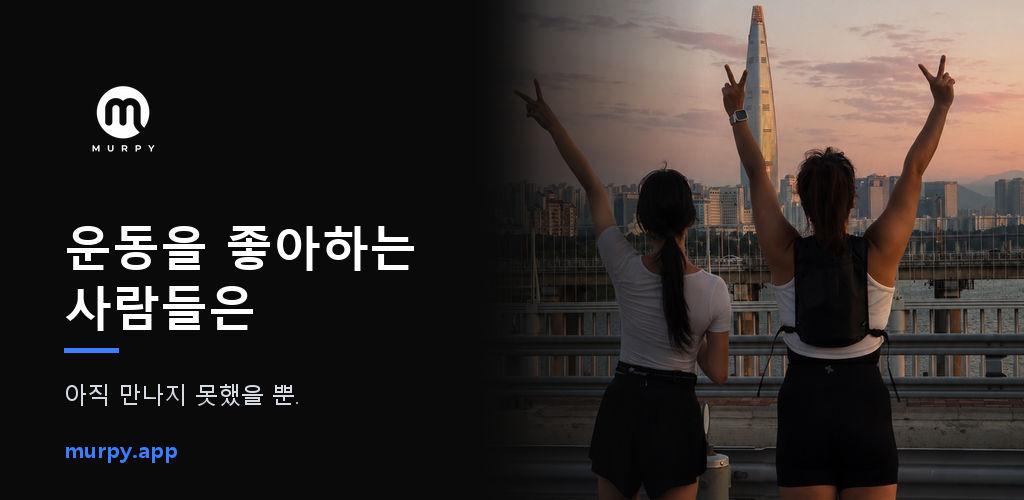
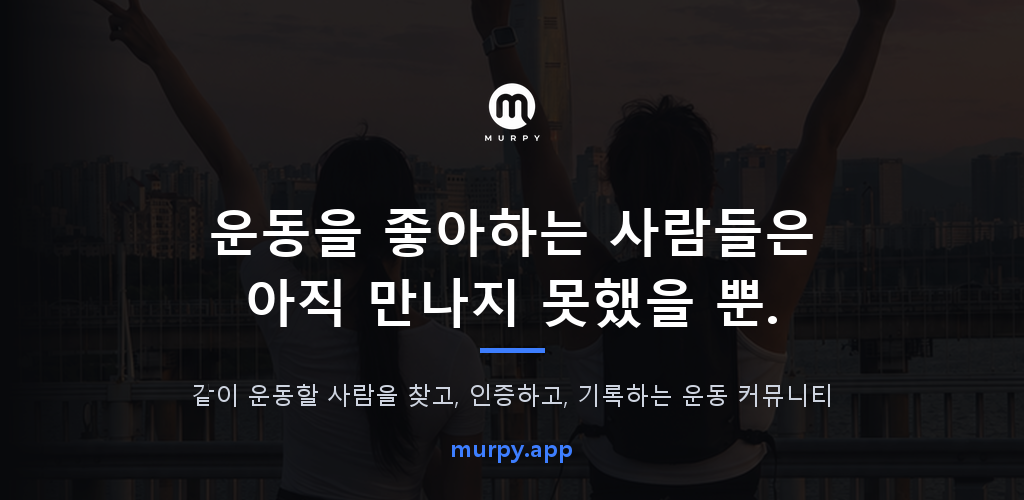
그래픽 이미지 — 로고·문구를 가운데로 (잘려도 살아남게)
대표 8-29: "지금 뭔가 좀 이상함 세로로 잘리는데"

★구글은 이 배너를 지면마다 다르게 잘라서 보여준다. 왼쪽에 로고와 글자를 몰아 뒀더니
미리보기부터 잘렸다. 중요한 것은 반드시 **가운데**에 있어야 한다.
-> 사진은 배경으로 전체에 깔고 어둡게 덮은 뒤, 로고·카피·도메인을 전부 중앙 정렬.
   비네트로 가운데를 한 번 더 눌러 어디가 보이든 글자가 읽히게.

사진·문장은 og-card.png(대표 승인본) 그대로.

Claude-Session: https://claude.ai/code/session_01ArRUffiAwbv9smZrwmZVyj

diff --git a/docs/promo/store/make_feature.py b/docs/promo/store/make_feature.py
@@ -1,72 +1,77 @@
 # -*- coding: utf-8 -*-
-"""플레이스토어 그래픽 이미지(1024x500) — og-card.png 를 그대로 재구성한다.
-og-card 는 이미 대표가 승인해서 카톡 공유에 쓰는 카드다. 새로 디자인하지 않는다.
+"""플레이스토어 그래픽 이미지(1024x500).
+
+★구글은 이 배너를 기기·지면마다 **다르게 잘라서** 보여준다(좌우 또는 위아래).
+  그래서 중요한 것(로고·한 문장)은 반드시 **가운데**에 있어야 살아남는다.
+  왼쪽에 몰아 두면 미리보기부터 글자가 날아간다(대표 8-29 확인).
+
+사진·문장은 og-card.png(카톡 공유 카드, 대표 승인본)와 같은 것을 쓴다.
+새로 디자인하지 않는다.
+
+    python docs/promo/store/make_feature.py         # 저장소 루트에서 실행
 """
-import io, os
-from PIL import Image, ImageDraw, ImageFont
+import os
+from PIL import Image, ImageDraw, ImageFont, ImageFilter
 
 W, H = 1024, 500
-SRC = 'og-card.png'          # 1200x630
-OUT = os.path.join(os.environ.get('TMPDIR', '.'), 'feature_graphic.png')
+SRC = 'og-card.png'
+OUT_DIR = os.path.join('docs', 'promo', 'store')
+OUT = os.path.join(OUT_DIR, 'feature_graphic_1024x500.png')
 
+# ── 배경: og-card 의 사진을 화면 전체에 깐다(잘려도 사진은 어디를 봐도 사진이다)
 src = Image.open(SRC).convert('RGB')
 sw, sh = src.size
+photo = src.crop((int(sw * 0.415), 0, sw, sh))      # 오른쪽 사진 부분만
 
-# ── 사진 부분만 잘라 온다. og-card 는 오른쪽 약 58%~ 가 사진이다(실측: x≈500/1200).
-PHOTO_X0 = int(sw * 0.415)
-photo = src.crop((PHOTO_X0, 0, sw, sh))
+scale = max(W / photo.size[0], H / photo.size[1])
+photo = photo.resize((int(photo.size[0] * scale) + 1, int(photo.size[1] * scale) + 1),
+                     Image.LANCZOS)
+ox = (photo.size[0] - W) // 2
+oy = int((photo.size[1] - H) * 0.42)                # 인물 얼굴/상체가 살도록 살짝 위에서
+canvas = photo.crop((ox, oy, ox + W, oy + H))
 
-# 1024x500 중 오른쪽 56% 를 사진이 차지한다
-pw = int(W * 0.56)
-# 높이에 맞춰 비율 유지 후 가운데 자르기
-scale = H / photo.size[1]
-nw = int(photo.size[0] * scale)
-photo = photo.resize((nw, H), Image.LANCZOS)
-if nw > pw:
-    off = (nw - pw) // 2
-    photo = photo.crop((off, 0, off + pw, H))
-else:
-    pw = nw
+# ── 사진 위에 어두운 막을 덮는다. 글자가 어디에 놓여도 읽힌다.
+veil = Image.new('RGB', (W, H), (8, 9, 12))
+canvas = Image.blend(canvas, veil, 0.62)
 
-canvas = Image.new('RGB', (W, H), (10, 10, 10))
-canvas.paste(photo, (W - pw, 0))
-
-# ── 사진 왼쪽에 검정 그라데이션을 겹쳐 글자가 사진 위로 자연스럽게 이어지게
-grad = Image.new('L', (240, 1), 0)
-for x in range(240):
-    grad.putpixel((x, 0), int(255 * (1 - x / 240)))
-grad = grad.resize((240, H))
-black = Image.new('RGB', (240, H), (10, 10, 10))
-canvas.paste(black, (W - pw, 0), grad)
+# 가운데를 한 번 더 눌러 준다(비네트) — 글자 뒤가 가장 어둡다
+vign = Image.new('L', (W, H), 0)
+vd = ImageDraw.Draw(vign)
+vd.ellipse([-W * 0.15, -H * 0.55, W * 1.15, H * 1.55], fill=150)
+vign = vign.filter(ImageFilter.GaussianBlur(90))
+canvas.paste(Image.new('RGB', (W, H), (8, 9, 12)), (0, 0), vign)
 
 d = ImageDraw.Draw(canvas)
 
+
 def font(sz, bold=True):
-    # Pretendard 가 없으면 맑은 고딕. 둘 다 없으면 기본.
-    for p in [r'C:\Windows\Fonts\malgunbd.ttf' if bold else r'C:\Windows\Fonts\malgun.ttf',
+    for p in [(r'C:\Windows\Fonts\malgunbd.ttf' if bold else r'C:\Windows\Fonts\malgun.ttf'),
               r'C:\Windows\Fonts\malgun.ttf']:
         if os.path.exists(p):
             return ImageFont.truetype(p, sz)
     return ImageFont.load_default()
 
-# ── 로고 (누끼 원본을 흰 원 안에 그대로)
-# ★로고 파일에 MURPY 글자가 이미 들어 있다 — 워드마크를 따로 찍으면 두 번 나온다.
-logo = Image.open('logo-nukki.png').convert('RGBA')
-LS = 118
-logo = logo.resize((LS, LS), Image.LANCZOS)
-canvas.paste(logo, (64, 62), logo)
 
-# ── 카피 (og-card 와 같은 문장)
-d.text((64, 214), '운동을 좋아하는', font=font(48), fill=(255, 255, 255))
-d.text((64, 274), '사람들은', font=font(48), fill=(255, 255, 255))
+def center(y, text, f, fill):
+    w = d.textbbox((0, 0), text, font=f)[2]
+    d.text(((W - w) // 2, y), text, font=f, fill=fill)
 
-# 파란 구분선 (브랜드 블루 #3D7EFF)
-d.rectangle([64, 348, 118, 352], fill=(61, 126, 255))
 
-d.text((64, 378), '아직 만나지 못했을 뿐.', font=font(23, False), fill=(214, 218, 226))
+# ── 로고 (가운데 위). 로고 파일에 MURPY 글자가 이미 들어 있다 — 워드마크를 또 찍지 않는다.
+logo = Image.open('logo-nukki.png').convert('RGBA').resize((104, 104), Image.LANCZOS)
+canvas.paste(logo, ((W - 104) // 2, 62), logo)
 
-# 하단 도메인
-d.text((64, 434), 'murpy.app', font=font(22), fill=(61, 126, 255))
+# ── 한 문장 (og-card 와 같은 카피를 한 줄로)
+center(196, '운동을 좋아하는 사람들은', font(52), (255, 255, 255))
+center(266, '아직 만나지 못했을 뿐.', font(52), (255, 255, 255))
 
+# 브랜드 블루 구분선
+d.rectangle([(W - 64) // 2, 348, (W + 64) // 2, 352], fill=(61, 126, 255))
+
+center(378, '같이 운동할 사람을 찾고, 인증하고, 기록하는 운동 커뮤니티',
+       font(24, False), (206, 212, 224))
+center(430, 'murpy.app', font(24), (61, 126, 255))
+
+os.makedirs(OUT_DIR, exist_ok=True)
 canvas.save(OUT, quality=95)
 print(OUT, canvas.size)
